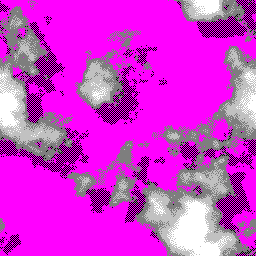
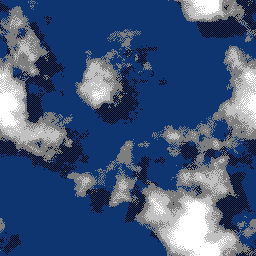
- Draft Axelay FX, tweaked (still with a shitload of glitches).

diff --git a/axelay_fx/src/main.c b/axelay_fx/src/main.c
@@ -12,7 +12,6 @@ int main(){
 #define	TABLE_LEN 512
 
 u16 scroll_jump_table_v[512];
-u16 scroll_jump_table_h[512];
 
 static void axelayFX(){
 	u32 hscrollInc = 0;
@@ -25,10 +24,7 @@ static void axelayFX(){
 		hscrollInc++;
 
 		VDP_setVerticalScroll(PLAN_A, scroll_jump_table_v[hscrollInc] - (vblCount & (64 * 8 - 1)));
-		VDP_setHorizontalScroll(PLAN_A, scroll_jump_table_h[hscrollInc] - (vblCount & (64 * 8 - 1)));
-
 		VDP_setVerticalScroll(PLAN_B, scroll_jump_table_v[hscrollInc] - ((vblCount >> 1) & (64 * 8 - 1)));
-		VDP_setHorizontalScroll(PLAN_B, scroll_jump_table_h[hscrollInc] - ((vblCount >> 1) & (64 * 8 - 1)));
 	}
 
 	VDP_clearPlan(APLAN, 0);
@@ -43,7 +39,7 @@ static void axelayFX(){
 	VDP_drawImageEx(BPLAN, &sea, TILE_ATTR_FULL(PAL1, TRUE, FALSE, FALSE, vramIndex), 0, 256 >> 3, FALSE, FALSE);
 	VDP_drawImageEx(BPLAN, &sea, TILE_ATTR_FULL(PAL1, TRUE, FALSE, FALSE, vramIndex), 256 >> 3, 0, FALSE, FALSE);
 	VDP_drawImageEx(BPLAN, &sea, TILE_ATTR_FULL(PAL1, TRUE, FALSE, FALSE, vramIndex), 256 >> 3, 256 >> 3, FALSE, FALSE);
-	vramIndex += sea.tileset->numTile;	
+	vramIndex += clouds.tileset->numTile;	
 
 	/* Draw the foreground */
 	VDP_setPalette(PAL0, clouds.palette->data);
@@ -51,7 +47,7 @@ static void axelayFX(){
 	VDP_drawImageEx(APLAN, &clouds, TILE_ATTR_FULL(PAL0, TRUE, FALSE, FALSE, vramIndex), 0, 256 >> 3, FALSE, FALSE);
 	VDP_drawImageEx(APLAN, &clouds, TILE_ATTR_FULL(PAL0, TRUE, FALSE, FALSE, vramIndex), 256 >> 3, 0, FALSE, FALSE);
 	VDP_drawImageEx(APLAN, &clouds, TILE_ATTR_FULL(PAL0, TRUE, FALSE, FALSE, vramIndex), 256 >> 3, 256 >> 3, FALSE, FALSE);
-	vramIndex += clouds.tileset->numTile;
+	// vramIndex += clouds.tileset->numTile;
 
 	SYS_enableInts();
 
@@ -63,7 +59,6 @@ static void axelayFX(){
 	for(i = 0; i < TABLE_LEN; i++)
 	{
 		scroll_jump_table_v[i] = hscrollInc;
-		scroll_jump_table_h[i] = hscrollInc >> 1;
 		hscrollInc += (j >> 2);
 
 		if (i < 8)
